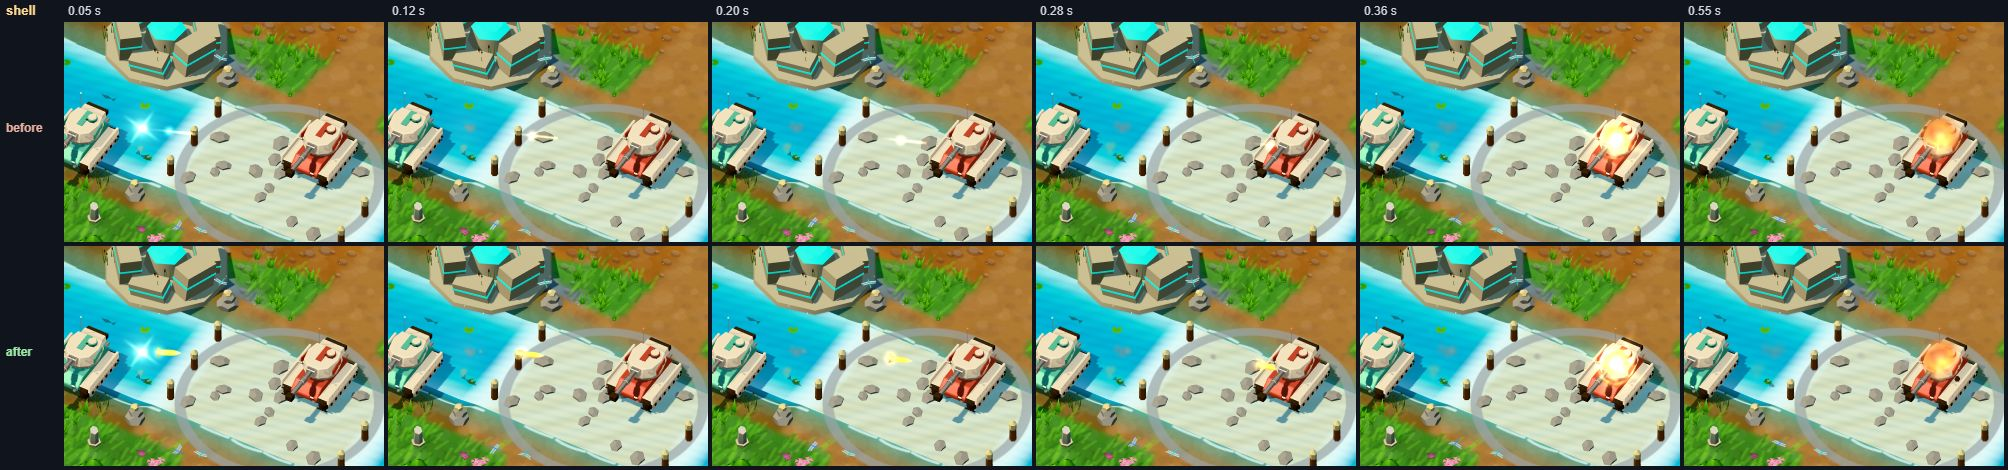
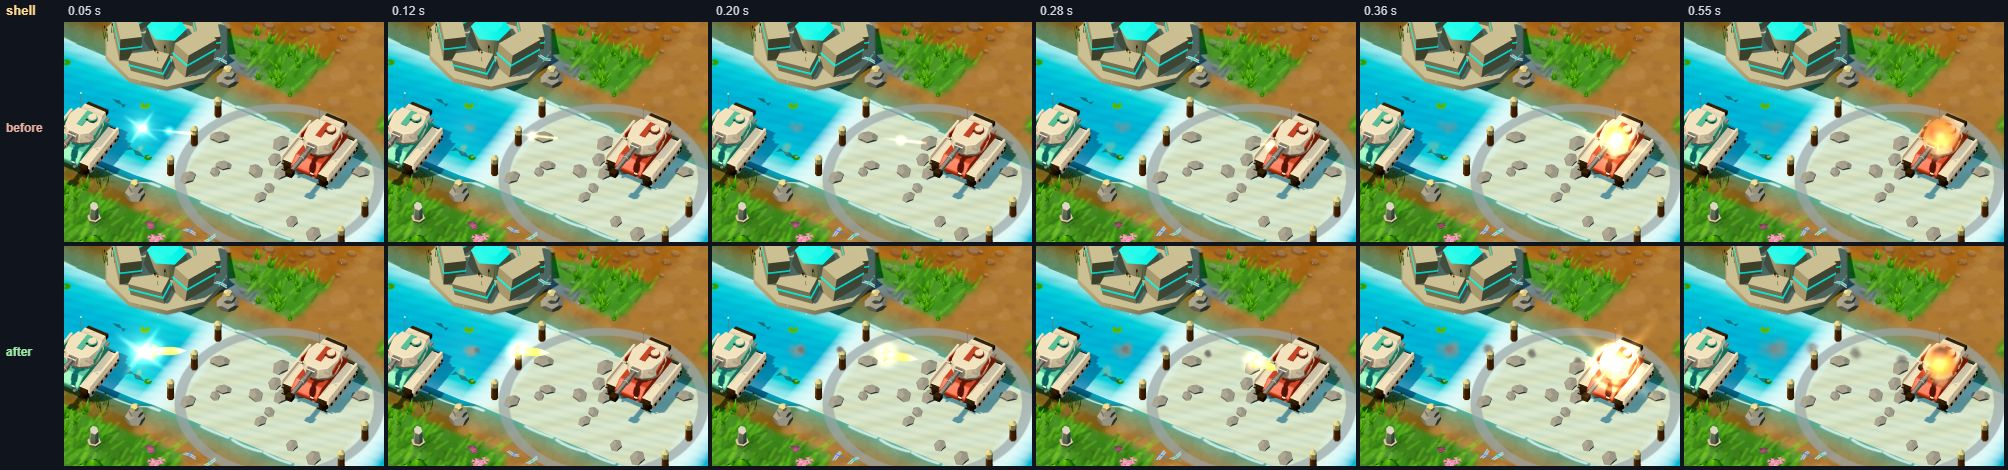
R3-X shell pass: bigger, brighter, more dramatic tank-class shells (owner-approved)
A 1.55 m brighter shell with a white-hot halo on a slightly higher arc, a long
thick dark smoke trail, a 1.45x muzzle flash and heavier recoil puff, and a
bigger impact (star flash, flat spark ring, wider ring and scorch ring). Same
ordnance mesh and pools (weapons-mix-eco still 128 draws, +1), flight times
unchanged; Eco keeps shorter trails, reduced motion no white flash. x.md notes
that the integrator should set Shade to beam in R3-U's VOICE_CLASS.

diff --git a/github-io/src/fx-kinds/ordnance.js b/github-io/src/fx-kinds/ordnance.js
@@ -11,12 +11,12 @@ import { CLASS_LOOK } from "./weapon-class.js";
 
 // Per-instance colours of the bodies (above 1 glows) and the trail / halo / burst palettes (shared arrays).
 export const BODY = Object.freeze({
-  shell: [2.3, 1.55, 0.8], lob: [1.9, 1.25, 0.7], flak: [2.4, 1.7, 0.9], missile: [1.8, 1.75, 1.6],
+  shell: [3, 2.1, 1.1], lob: [1.9, 1.25, 0.7], flak: [2.4, 1.7, 0.9], missile: [1.8, 1.75, 1.6],
   bomb: [0.34, 0.32, 0.31], firebomb: [2.4, 1.05, 0.3], barrage: [2.1, 1.3, 0.7],
 });
 const PAL = {
   halo: [1, 0.72, 0.32, 0.95], haloHot: [1, 0.86, 0.55, 1], haloMissile: [1, 0.9, 0.7, 1],
-  shellSmoke: [0.66, 0.64, 0.6, 0.68], shellSmokeEnd: [0.7, 0.7, 0.7, 0],
+  shellSmoke: [0.42, 0.4, 0.38, 0.72], shellSmokeEnd: [0.55, 0.54, 0.53, 0],
   lobSmoke: [0.5, 0.48, 0.46, 0.55], lobSmokeEnd: [0.55, 0.55, 0.55, 0],
   ribbon: [0.95, 0.94, 0.9, 0.7], ribbonEnd: [0.8, 0.8, 0.8, 0],
   ember: [1, 0.7, 0.3, 1], emberEnd: [1, 0.3, 0.05, 0],
@@ -55,7 +55,7 @@ export function launch(fx, cls, a, ev, o = null) {
   r.arc = Math.min(look.arcMax ?? 0, len * (look.arc ?? 0));
   r.body = o?.body ?? look.body ?? 1;
   r.color = o?.color || BODY[cls] || BODY.shell;
-  r.haloSize = look.halo ?? 0; r.haloColor = cls === "missile" ? PAL.haloMissile : PAL.halo;
+  r.haloSize = look.halo ?? 0; r.haloColor = cls === "missile" ? PAL.haloMissile : cls === "shell" ? PAL.haloHot : PAL.halo;
   r.power = a.power; r.anchor = a.anchor; r.air = !!ev?.tAir; r.team = ev?.team ?? 0;
   r.sx = a.sx ?? 0; r.sz = a.sz ?? 0;
   r.roll = fx.rng() * 6.28; r.spin = cls === "missile" ? 9 : cls === "bomb" ? 1.5 : 4;
@@ -144,7 +144,8 @@ function trail(fx, r, dt, eco, ux, uy, uz, length) {
       q.mode = STRETCH; q.ax = ux; q.ay = uy; q.az = uz; q.length = 0.55; q.c0 = PAL.ribbon; q.c1 = PAL.ribbonEnd;
     } else {
       const lob = cls === "lob";
-      q.vy = 0.25; q.drag = 1.2; q.life = (look.trailLife + fx.rng() * 0.15) * lifeK; q.s0 = lob ? 0.3 : 0.22; q.s1 = lob ? 1.05 : 0.8;
+      // A shell's trail is long and thick (owner 2026-11-22); Eco keeps it shorter through lifeK and the wider gap.
+      q.vy = 0.25; q.drag = 1.2; q.life = (look.trailLife + fx.rng() * 0.15) * lifeK; q.s0 = lob ? 0.3 : 0.3; q.s1 = lob ? 1.05 : 1.2;
       q.cell = CELL.puff; q.c0 = lob ? PAL.lobSmoke : PAL.shellSmoke; q.c1 = lob ? PAL.lobSmokeEnd : PAL.shellSmokeEnd; q.spin = 0.6;
     }
   }
@@ -185,6 +186,20 @@ export function airBurst(fx, at, anchor, power = 1) {
   }
 }
 
+// A shell's extra impact (R3-X, owner 2026-11-22): a big star flash (soft and warm with reduced motion) and a ring of
+// sparks thrown out flat around the hit, from the glow pool.
+const RING_SPARKS = 10;
+function shellImpact(fx, at, anchor) {
+  const calm = !fx.motion, y = at.y + fx.ground(at.x, at.z) + 0.4;
+  sprite(fx, fx.glow, at.x, y, at.z, anchor, CELL.flare, 5.2, 6.2, 0.13, calm ? PAL.calm : PAL.flash, calm ? PAL.calmEnd : PAL.flashEnd);
+  if (calm) return;
+  for (let i = 0, n = fx.count(RING_SPARKS); i < n; i++) {
+    const a = (i / n) * 6.28 + fx.rng() * 0.4, v = 6 + fx.rng() * 3, vx = Math.cos(a) * v, vz = Math.sin(a) * v, vy = 1 + fx.rng() * 1.5, l = Math.hypot(vx, vy, vz);
+    const p = sprite(fx, fx.glow, at.x, y, at.z, anchor, CELL.streak, 0.09, 0.04, 0.3 + fx.rng() * 0.15, PAL.spark, PAL.sparkEnd);
+    p.vx = vx; p.vy = vy; p.vz = vz; p.gravity = 12; p.drag = 1.8; p.mode = STRETCH; p.ax = vx / l; p.ay = vy / l; p.az = vz / l; p.length = 0.55; p.floor = 0.05;
+  }
+}
+
 // A dark scorch ring opening on the ground around a heavy impact (normal blended, in the decal pool).
 function scorchRing(fx, x, z, size, anchor) {
   const p = fx.emit(fx.decals, x, 0.06, z, anchor);
@@ -209,8 +224,9 @@ export function landRound(fx, r, ux, uz) {
       // shell, artillery: the heavy hit, a bright ring and a scorch ring; in the air (a shell at a flyer) a burst instead.
       if (r.air) { airBurst(fx, r.to, anchor, 0.7); return; }
       fx.hit(at, r.power, anchor);
-      if (fx.motion) sprite(fx, fx.glow, at.x, at.y + 0.3, at.z, anchor, CELL.ring, 0.5, r.cls === "lob" ? 4.2 : 2.8, 0.2, PAL.ring, PAL.ringEnd);
-      scorchRing(fx, at.x, at.z, r.cls === "lob" ? 4.4 : 3, anchor);
+      if (fx.motion) sprite(fx, fx.glow, at.x, at.y + 0.3, at.z, anchor, CELL.ring, 0.5, r.cls === "lob" ? 4.2 : 4.4, 0.24, PAL.ring, PAL.ringEnd);
+      if (r.cls === "shell") shellImpact(fx, at, anchor);
+      scorchRing(fx, at.x, at.z, r.cls === "lob" ? 4.4 : 4.2, anchor);
       if (r.cls === "lob") fx.dust({ x: at.x, y: 0.3, z: at.z }, 2, anchor, 1.3, 1.3);
     }
   }

diff --git a/github-io/src/fx.js b/github-io/src/fx.js
@@ -526,19 +526,21 @@ export class Effects {
       this.slope(e, to, anchor, m, travel);
       return;
     }
-    const cannon = kind === "cannon", rocket = kind === "rocket";
+    const cannon = kind === "cannon", rocket = kind === "rocket", cls = weaponClass(e, style);
+    // R3-X: a shell (tank-class cannon) fires with a bigger flash and a heavier recoil puff (owner: "more dramatic, if cheap").
+    const shell = cls === "shell";
     // Muzzle: star flare, hot glow and (for heavy weapons) a smoke puff drifting forward.
-    const flash = cannon ? (e.weapon === "tank" ? 1.9 : 1.4) : rocket ? 1 : 0.7;
+    const flash = (cannon ? (e.weapon === "tank" ? 1.9 : 1.4) : rocket ? 1 : 0.7) * (shell ? 1.45 : 1);
     this.particle(this.glow, { ...from, cell: CELL.flare, s0: flash, s1: flash * 1.2, life: cannon ? 0.11 : 0.06, c0: m ? WARM.flash : [1, 0.8, 0.5, 0.45],
       c1: [1, 0.55, 0.15, 0], anchor });
     this.particle(this.glow, { ...from, s0: flash * 1.5, s1: flash * 1.8, life: cannon ? 0.14 : 0.08, c0: [1, 0.72, 0.35, 0.7],
       c1: [1, 0.4, 0.1, 0], anchor });
     if ((cannon || rocket) && m) {
       const back = rocket ? -1 : 1;
-      for (let i = 0; i < this.count(3); i++)
+      for (let i = 0; i < this.count(shell ? 5 : 3); i++)
         this.particle(this.smoke, { lifted: true, x: from.x - (rocket ? nx * 1.4 : 0), y: from.y, z: from.z - (rocket ? nz * 1.4 : 0),
           vx: nx * back * (1.5 + i * 0.6), vy: 0.5 + this.rng() * 0.4, vz: nz * back * (1.5 + i * 0.6), drag: 2.2,
-          life: 0.9 + this.rng() * 0.4, s0: 0.45, s1: 1.7, cell: CELL.puff, c0: [0.6, 0.58, 0.55, 0.5], c1: [0.55, 0.55, 0.55, 0],
+          life: (shell ? 1.2 : 0.9) + this.rng() * 0.4, s0: shell ? 0.6 : 0.45, s1: shell ? 2.4 : 1.7, cell: CELL.puff, c0: [0.6, 0.58, 0.55, 0.5], c1: [0.55, 0.55, 0.55, 0],
           anchor, spin: 0.8 });
       // A big gun's blast kicks up the ground under the muzzle.
       if (cannon && e.weapon !== "tower" && !e.sAir) this.dust({ x: from.x, y: 0.25, z: from.z }, 1, anchor, 0.8, 0.8);
@@ -547,7 +549,6 @@ export class Effects {
     // shows a brief static tracer along the whole path instead.
     const width = cannon ? 0.34 : rocket ? 0.2 : 0.11, tail = cannon ? 2.4 : rocket ? 1.3 : 2;
     const color = style.color ?? (cannon ? [1, 0.78, 0.4, 1] : rocket ? [1, 0.85, 0.6, 1] : [1, 0.9, 0.6, 1]);
-    const cls = weaponClass(e, style);
     if (m && (cls === "shell" || cls === "lob" || cls === "flak")) {
       // R3-X: a glowing round in flight (the ordnance mesh), a short smoke trail and a slight arc (a high lob for
       // artillery, a red warning ring where it will land; a fast round and flak bursts at a flyer).

diff --git a/github-io/src/fx-kinds/twin-heavy.js b/github-io/src/fx-kinds/twin-heavy.js
@@ -10,7 +10,7 @@ export default {
   spawn(fx, ev, rng, a) {
     for (let i = 0; i < 2; i++) {
       const side = (i ? 1 : -1) * 0.38, delay = i ? 0 : BEAT, at = { x: a.from.x + a.sx * side, y: a.from.y, z: a.from.z + a.sz * side };
-      flare(fx, at, 1.5, undefined, 0.1, a.anchor, delay);
+      flare(fx, at, 2.1, fx.motion ? undefined : [1, 0.8, 0.5, 0.45], 0.1, a.anchor, delay);
       fx.particle(fx.glow, { lifted: true, x: at.x, y: at.y, z: at.z, s0: 2.1, s1: 2.5, life: 0.13, c0: [1, 0.72, 0.35, 0.7], c1: [1, 0.4, 0.1, 0], anchor: a.anchor, delay, rot: rng() * 6.28 });
       smokePuff(fx, rng, at, a.ux * 1.5, a.uz * 1.5, a.anchor, 1.6, undefined, 0.9, delay);
       // The first barrel waits a beat and flies a beat faster: both land at `travel`.

diff --git a/github-io/src/fx-kinds/weapon-class.js b/github-io/src/fx-kinds/weapon-class.js
@@ -44,7 +44,7 @@ export function weaponClass(ev, style = weaponStyle(ev)) {
 // Timings and sizes of the classes (seconds and metres). Eco quality keeps the shapes but shortens the trails
 // (`ecoTrail`) and the pools' `count()` halves every burst.
 export const CLASS_LOOK = Object.freeze({
-  shell: { arc: 0.04, arcMax: 0.6, body: 1.1, trailGap: 0.03, trailLife: 0.5, halo: 1 },
+  shell: { arc: 0.065, arcMax: 1, body: 1.55, trailGap: 0.022, trailLife: 0.8, halo: 1.7 },
   lob: { arc: 0.22, arcMax: 3.2, body: 1.35, trailGap: 0.03, trailLife: 0.7, halo: 0.9 },
   flak: { arc: 0, arcMax: 0, body: 0.6, trailGap: 0, trailLife: 0, halo: 0.6, bursts: 3, spread: 1.4 },
   missile: { body: 0.55, weave: 0.55, trailGap: 0.022, trailLife: 0.55 },

diff --git a/github-io/src/fx-kinds/plough.js b/github-io/src/fx-kinds/plough.js
@@ -7,8 +7,8 @@ export default {
   id: "plough",
   spawn(fx, ev, rng, a) {
     const { from, anchor } = a;
-    flare(fx, from, 1.5, undefined, 0.1, anchor);
-    smokePuff(fx, rng, from, a.ux * 1.6, a.uz * 1.6, anchor, 1.8, undefined, 0.9);
+    flare(fx, from, 2.1, undefined, 0.1, anchor);
+    smokePuff(fx, rng, from, a.ux * 1.6, a.uz * 1.6, anchor, 2.4, undefined, 1.1);
     launch(fx, "shell", a, ev, { body: 1.25 });
     // The wake: dust thrown up behind the hull along the ground, a few puffs spread over a second.
     for (let i = 0; i < 3; i++)

diff --git a/github-io/docs/aaa/results/round3/x.md b/github-io/docs/aaa/results/round3/x.md
@@ -12,7 +12,7 @@ Every shot maps to one class (`src/fx-kinds/weapon-class.js` `weaponClass(event,
 | Class | Weapons | What you see |
 |---|---|---|
 | `tracer` | Ranger, Harvester, Gunner, Vanguard, Scrapper, Rider, Drone pulses, Iron Vanguard / Sovereign hoses | Still fast and snappy. Thinner rifle tracers with a small white-hot head, a small muzzle flash, and a dust puff on every ground hit (every other one on Eco). |
-| `shell` | Tank, Tower, Walker (twin), Rampart (fat round) | A glowing finned shell on a slight arc with a short smoke trail; the muzzle flash, recoil and smoke puff as before. The impact: a flash, the fireball, sparks, a bright ring and a dark scorch ring. |
+| `shell` | Tank, Tower, Walker (twin), Rampart (fat round) | A big, bright glowing finned shell (1.55 m, a white-hot halo) on a slightly higher arc (6.5% of the range, at most 1 m) with a long, thick dark smoke trail. A 1.45× muzzle flash and a heavier recoil puff (5 puffs, not 3). The impact: a big star flash, the fireball, a ring of ten sparks thrown out flat, a wide bright ring and a 4.2 m dark scorch ring. See "Shell pass" below. |
 | `lob` | Breaker | A high lob (22% of the range, at most 3.2 m) with a darker trail, over a red warning ring at the landing spot; a bigger ring, dust and scorch ring on landing. |
 | `lob` (Barrage) | Breaker's Barrage ability | The strike mark is now red. In its last 0.85 s a big glowing shell drops out of the sky onto the mark with a smoke trail. It is drawn from `sim.strikes` (read only), so it touches down on the tick the strike resolves. |
 | `flak` | A ground cannon (Tower) at a flyer | A fast round and three black-and-orange flak bursts around the flyer: the first exactly at the hit, two more a beat later. No ground scorch. |
@@ -25,6 +25,22 @@ Every shot maps to one class (`src/fx-kinds/weapon-class.js` `weaponClass(event,
 | shot down | any flyer | It bursts where it flies (a flash, black puffs, fire and chips), not on the ground under it. The wreck (the unit's own model) spins about one full turn as it falls, trailing smoke and fire licks, and crashes in dust, a small fireball and a scorch; then it smoulders like a vehicle wreck. Engine glow and contrails were already R3-W's air life. |
 
 Any round meeting a flyer (`hit()` above 2.2 m) now bursts in the air instead of leaving dust and a scorch on the ground under it.
+
+## Shell pass (owner-approved, 2026-11-22)
+
+The owner asked for more dramatic shells "if cheap". Every change comes from the existing ordnance mesh and pools: still +1 draw in `weapons-mix-eco`, and no flight time changed.
+
+| | Before the pass | After the pass |
+|---|---|---|
+| Shell body | 1.1 m, colour ×2.3 | 1.55 m, colour ×3 (brighter), white-hot halo 1.7 m (was 1.0) |
+| Arc | 4% of the range, at most 0.6 m | 6.5%, at most 1 m |
+| Trail | a puff every 0.03 s, 0.5 s life, pale grey, up to 0.8 m | a puff every 0.022 s, 0.8 s life, dark grey (reads on pale sand and water), up to 1.2 m |
+| Muzzle | the cannon flash; 3 recoil puffs up to 1.7 m | the flash 1.45× bigger (Walker and Rampart 2.1 m); 5 puffs up to 2.4 m |
+| Impact | the hit, a 2.8 m ring, a 3 m scorch ring | the hit, a 5.2 m star flash, ten sparks thrown out flat, a 4.4 m ring, a 4.2 m scorch ring |
+
+- **Eco:** the trail stays shorter (0.6× life, 1.6× gap) and the sparks are halved.
+- **Reduced motion / combat motion off:** a soft warm flare instead of the star, and no sparks.
+- **Sheets:** `x/shell-desktop.jpg` and `x/shell-phone.jpg` were re-rendered after this pass.
 
 ## Timing: impacts land when the damage shows
 
@@ -111,7 +127,7 @@ The probe scripts were scratch files in `.tmp/` and have been deleted.
 
 - **Class ids are R3-U's.** Import from `src/fx-kinds/weapon-class.js`: `WEAPON_CLASSES`, and `weaponClass(event, style?)`. It is pure, with no three.js import; `style` defaults to `weaponStyle(event)`.
 - **Mapping differences against R3-U's `weaponClass`,** checked for every armed unit, at ground and at a flyer:
-  - **Shade:** R3-X says `beam`, R3-U says `tracer`. Its look is a short beam (`look: "beam"`, life 0.06 s). Suggest that R3-U maps Shade's voice to `beam`, or the integrator picks one.
+  - **Shade:** R3-X says `beam`, R3-U says `tracer`. Its look is a short beam (`look: "beam"`, life 0.06 s), and it stays `beam` visually (coordinator, 2026-11-22). **Integrator: set Shade's entry in R3-U's `VOICE_CLASS` to `beam`** when merging, so its sound and look name the same class.
   - Everything else agrees: Drone `tracer`, Anti-tank `missile`, Breaker `lob` even at a flyer, Tower at a flyer `flak`, Hawk `strafe` / `missile`, Glider and Balloon `bomb`, support `heal`.
 - **Events and times a sound can key on.** All are view times after the shot event.
 

diff --git a/github-io/docs/CHANGELOG.md b/github-io/docs/CHANGELOG.md
@@ -161,7 +161,7 @@ Everything below applies only under the skirmish rule `aiPlan: "field"` (`fieldP
 - **Fast against two rivals: not eased (partial).** The owner-approved Fast-only easing was tried in nine forms (a later first joint offensive by 30, 45 or 60 s, no first raid, both, a lighter first raid and offensive, a smaller army cap, AI rally behind the core, and as a diagnosis a player rally in front of the core); none moved the 6-map Fast 1v2 cells beyond noise, and the delay measured worse on a second sample, so no AI change ships. Numbers and the owner options are in `docs/aaa/results/round3/i.md`.
 
 ### R3-X: Weapon effects, ground and air (owner request: "slow and beautiful, but cheap")
-- **Ten weapon effect classes** (`src/fx-kinds/weapon-class.js`, the same ids as R3-U's sounds): the heavier the weapon, the slower and showier the round. Rifles and machine guns stay fast (thinner tracers with a white-hot head, a dust puff on every ground hit); tank-class cannons fire a glowing shell on a slight arc with a short smoke trail, then a flash, sparks, a bright ring and a scorch ring; the Breaker lobs a high round over a red warning ring; a ground cannon at a flyer bursts black-and-orange flak around it; beams and rails charge at the muzzle, then snap out and fade from the muzzle forward; flamers gain a hot flame tongue and embers; the medic's heal is a soft green beam with sparkles rising off the patient.
+- **Ten weapon effect classes** (`src/fx-kinds/weapon-class.js`, the same ids as R3-U's sounds): the heavier the weapon, the slower and showier the round. Rifles and machine guns stay fast (thinner tracers with a white-hot head, a dust puff on every ground hit); tank-class cannons fire a big, bright glowing shell on a slight arc with a long, thick smoke trail, behind a stronger muzzle flash and recoil puff, then a big flash, a ring of sparks, a wide bright ring and a scorch ring; the Breaker lobs a high round over a red warning ring; a ground cannon at a flyer bursts black-and-orange flak around it; beams and rails charge at the muzzle, then snap out and fade from the muzzle forward; flamers gain a hot flame tongue and embers; the medic's heal is a soft green beam with sparkles rising off the patient.
 - **Air:** Hawk missiles corkscrew to a flyer on thin curling ribbons and meet it in a sharp air burst; at the ground the Hawk strafes (tracer strikes walking onto the target, each kicking a dust spurt); Glider and Balloon bombs are real finned bodies that fall faster and grow over a shadow dot, then blast (fire for the Balloon); a flyer shot down bursts where it flies, spins down trailing smoke and crashes in dust and fire. Any round meeting a flyer now bursts in the air (no scorch on the ground under it).
 - **Barrage:** the shell drops out of the sky onto its mark over its last 0.85 s, drawn from the simulation's own strike list so it lands on the strike's tick; the strike mark is red.
 - **Lands when the damage shows:** every round lands exactly at its flight time (visual-style.json `life`, unchanged), when the target's hit flash fires, and the target's health bar now holds until then too; a killing round lands within 0.24 s.
